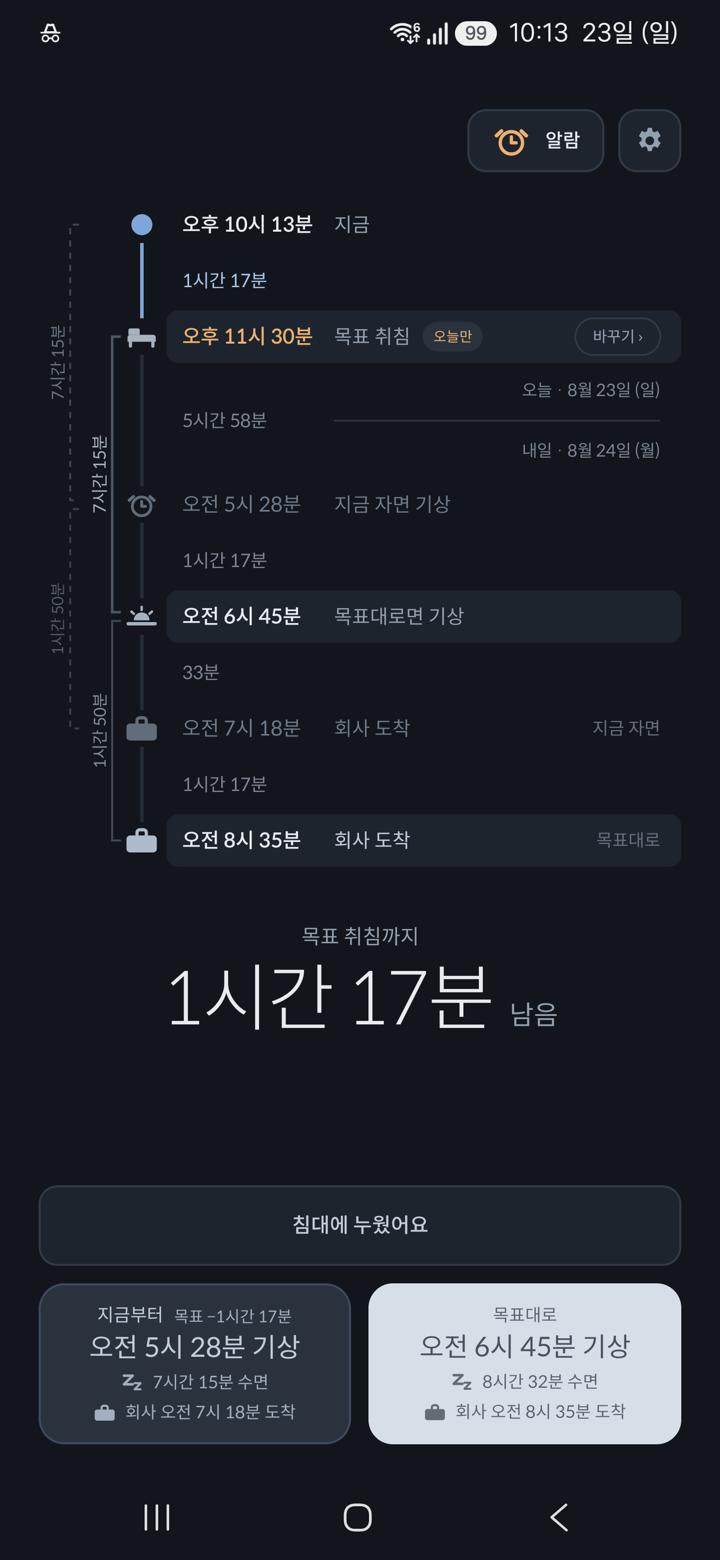
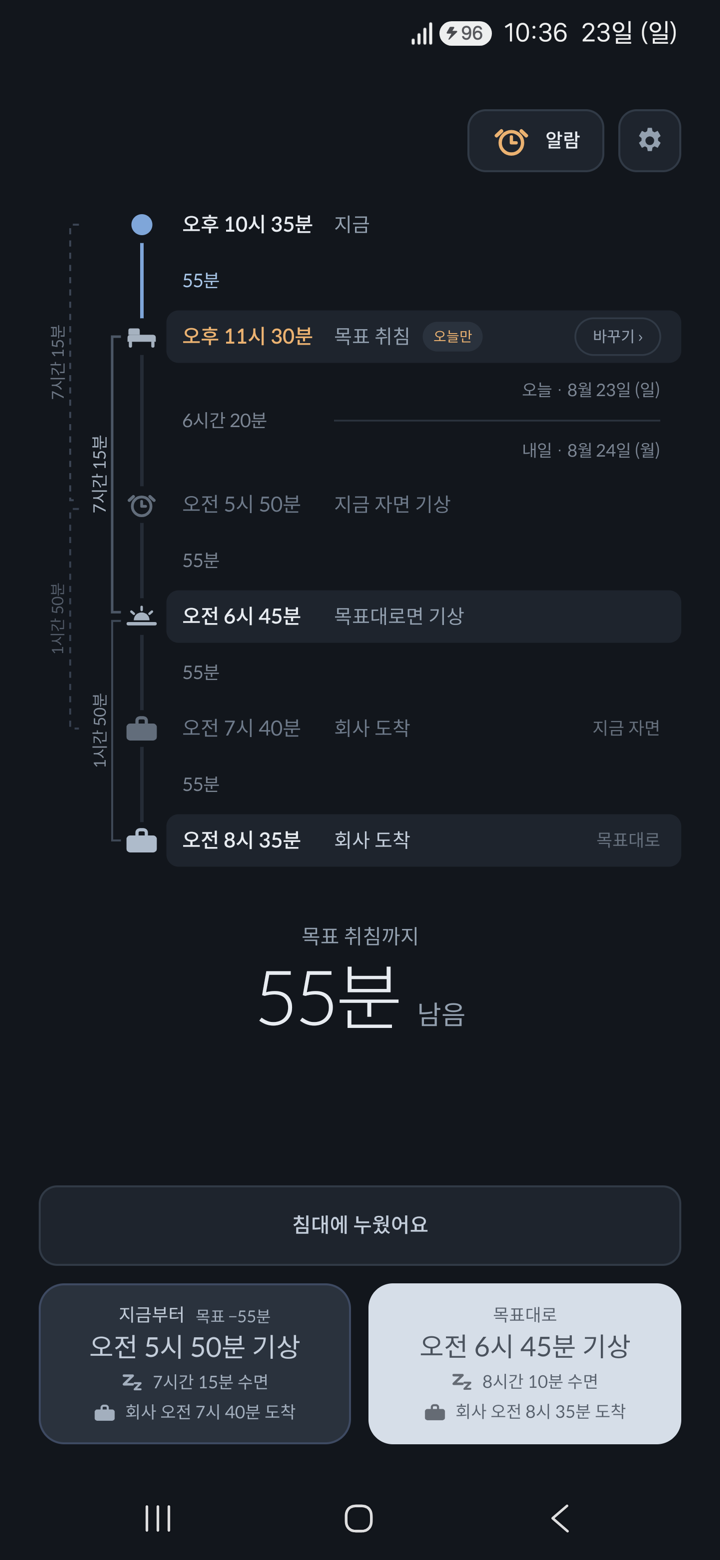
이름은 프로젝트, 목록은 목록답게
목록 맨 위에 스크린샷이 통째로 떠 있어서 «눌러서 보는 목록» 이 아니었다. 옮겨 온 열넷도
아직 열 준비가 안 됐는데 눌리고 있었다.

- 대표 그림 블록을 걷고 줄 목록 하나로. 그림은 눌러 들어가야 나온다
- draft 를 두고 옮겨 온 열넷에 붙였다 — 목록에 이름만 남고 페이지는 안 만든다
- 사이트 이름 «만든 것들» → «프로젝트». 주소와 같고 랜딩의 이력서·글과 결이 맞는다
- 파비콘을 겹친 네모 둘로. 16px 에서 안 뭉개지는 쪽으로 골랐다

diff --git a/src/content.config.ts b/src/content.config.ts
@@ -16,8 +16,8 @@ const projects = defineCollection({
     /** 열어볼 것 하나 — 사이트 안 경로도 된다 */
     link: z.string().optional(),
     linkLabel: z.string().optional(),
-    /** 목록 맨 위에 크게 세울 것. 하나만 true */
-    feature: z.boolean().default(false),
+    /** 아직 안 여는 것. 목록에 이름만 남고 페이지는 안 만든다 */
+    draft: z.boolean().default(false),
     /** 목록 맨 위와 글머리에 세우는 그림 */
     cover: z.string().optional(),
     /** 낮에 쓸 판이 따로 있으면 */

diff --git a/src/styles/site.css b/src/styles/site.css
@@ -305,3 +305,8 @@ figcaption {
   .only-dark { display: block; }
   .only-light { display: none; }
 }
+
+/* 아직 안 연 줄 — 이름만 남기고 눌리지 않는다 */
+.row.off { color: var(--ink-3); cursor: default; }
+.row.off:hover { background: none; }
+.row.off .name { font-weight: 400; }

diff --git a/README.md b/README.md
@@ -1,6 +1,6 @@
 # projects.sungd.uk
 
-만든 것들 — 앱 · 도구 · 대시보드 · 분석. [projects.sungd.uk](https://projects.sungd.uk)
+프로젝트 — 앱 · 도구 · 대시보드 · 분석. [projects.sungd.uk](https://projects.sungd.uk)
 
 전에는 `resume.sungd.uk/projects` 에 있었다. 주소는 이력서인데 라우트로 보면 프로젝트가
 더 컸고, 갈래도 화면도 다시 짜야 해서 제 주소로 뗐다.

diff --git a/src/content/projects/career-radar.md b/src/content/projects/career-radar.md
@@ -1,4 +1,5 @@
 ---
+draft: true
 title: "커리어 레이더"
 tagline: "한국 IT 채용 공고(JD)를 직군별 회사×스택 매트릭스 + 통합 직무기술서 + 학습 로드맵으로 정리하는 도구. 회사명은 익명화한 예시."
 period: "2026.05"

diff --git a/src/content/projects/switch2-buying.md b/src/content/projects/switch2-buying.md
@@ -1,4 +1,5 @@
 ---
+draft: true
 title: "닌텐도 스위치2 구매 분석"
 tagline: "스위치2를 어디서·얼마에 살지 — 적정가·버전·타이밍·게임을 '결론 먼저, 근거는 옆에' 보드로 정리한 구매 분석."
 period: "2026.05"

diff --git a/src/content/projects/travel.md b/src/content/projects/travel.md
@@ -1,4 +1,5 @@
 ---
+draft: true
 title: "여행 계획 대시보드"
 tagline: "가족 해외여행을 시기·비용·동선·체력까지 한 화면에서 비교하며 계획하는 플래너. 인원·금액은 익명화한 예시."
 period: "2026.05.22"

diff --git a/src/content/projects/election.md b/src/content/projects/election.md
@@ -1,4 +1,5 @@
 ---
+draft: true
 title: "선거 공약 분석"
 tagline: "후보 공약과 과거 이행 실적으로 \"공약이 지켜질지\"를 전망하는 분석 도구. 가상 도시 예시."
 period: "2026.05.28"

diff --git a/src/content/projects/book-analysis.md b/src/content/projects/book-analysis.md
@@ -1,4 +1,5 @@
 ---
+draft: true
 title: "독서 성향 분석"
 tagline: "읽은 책 데이터로 분야·저자 분포와 시기별 흐름을 정리하는 리포트."
 period: "2026.05.30"

diff --git a/src/content/projects/claude-dashboard-patches.md b/src/content/projects/claude-dashboard-patches.md
@@ -1,4 +1,5 @@
 ---
+draft: true
 title: "Claude 대시보드 패치"
 tagline: "claude-dashboard status line을 개인 취향으로 커스터마이즈하는 패치."
 period: "2026.05.25"

diff --git a/src/content/projects/insurance-dashboard.md b/src/content/projects/insurance-dashboard.md
@@ -1,4 +1,5 @@
 ---
+draft: true
 title: "보험 상품 비교 분석"
 tagline: "두 보험 상품을 한 기준으로 비교하고 30년 손익을 시뮬레이션."
 period: "2026.05.25"

diff --git a/src/content/projects/whooing-tools.md b/src/content/projects/whooing-tools.md
@@ -1,4 +1,5 @@
 ---
+draft: true
 title: "가계부 자동 기입"
 tagline: "은행 명세서를 후잉 가계부 형식으로 자동 변환하는 스크립트."
 period: "2026.05.18"

diff --git a/src/content/projects/claude-code-tracking.md b/src/content/projects/claude-code-tracking.md
@@ -1,4 +1,5 @@
 ---
+draft: true
 title: "Claude Code 트래킹"
 tagline: "릴리스마다 \"오늘 써볼 만한 것\"을 골라주는 changelog 큐레이션."
 period: "2026.05.28"
